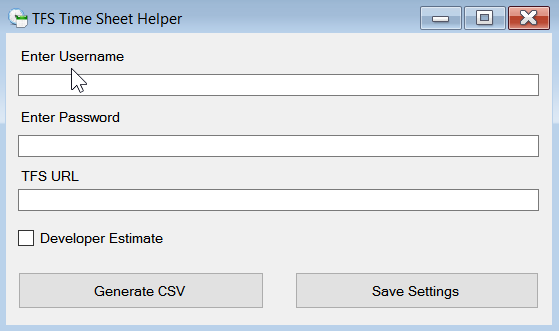
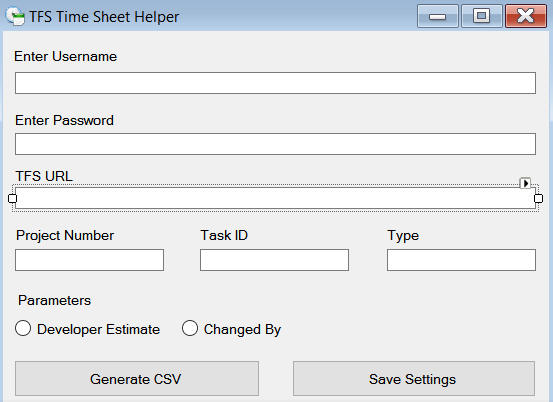
Edit metadata

diff --git a/Readme.md b/Readme.md
@@ -11,9 +11,17 @@ TFS Timesheet helper is small tool which helps to generate CSV based timesheet w
 > Developer Estimate uses field from TFS that you defined for hours spend by developer on particular task or defect. 
 In order to make this work you might need to change the field name according to your Project.
 
+### Task Chooser
+> Add all your task related project code in this 
+
+### Changed by
+> When this is changed , this gives all the defects that you might have looked at spent some time .
+  Useful for leads and functional consultants
+
 ### Todos
 
- - Add basic task chooser
+ - ~~Add basic task chooser~~
+ - Add proper messages and loading animation
 
 License
 ----
